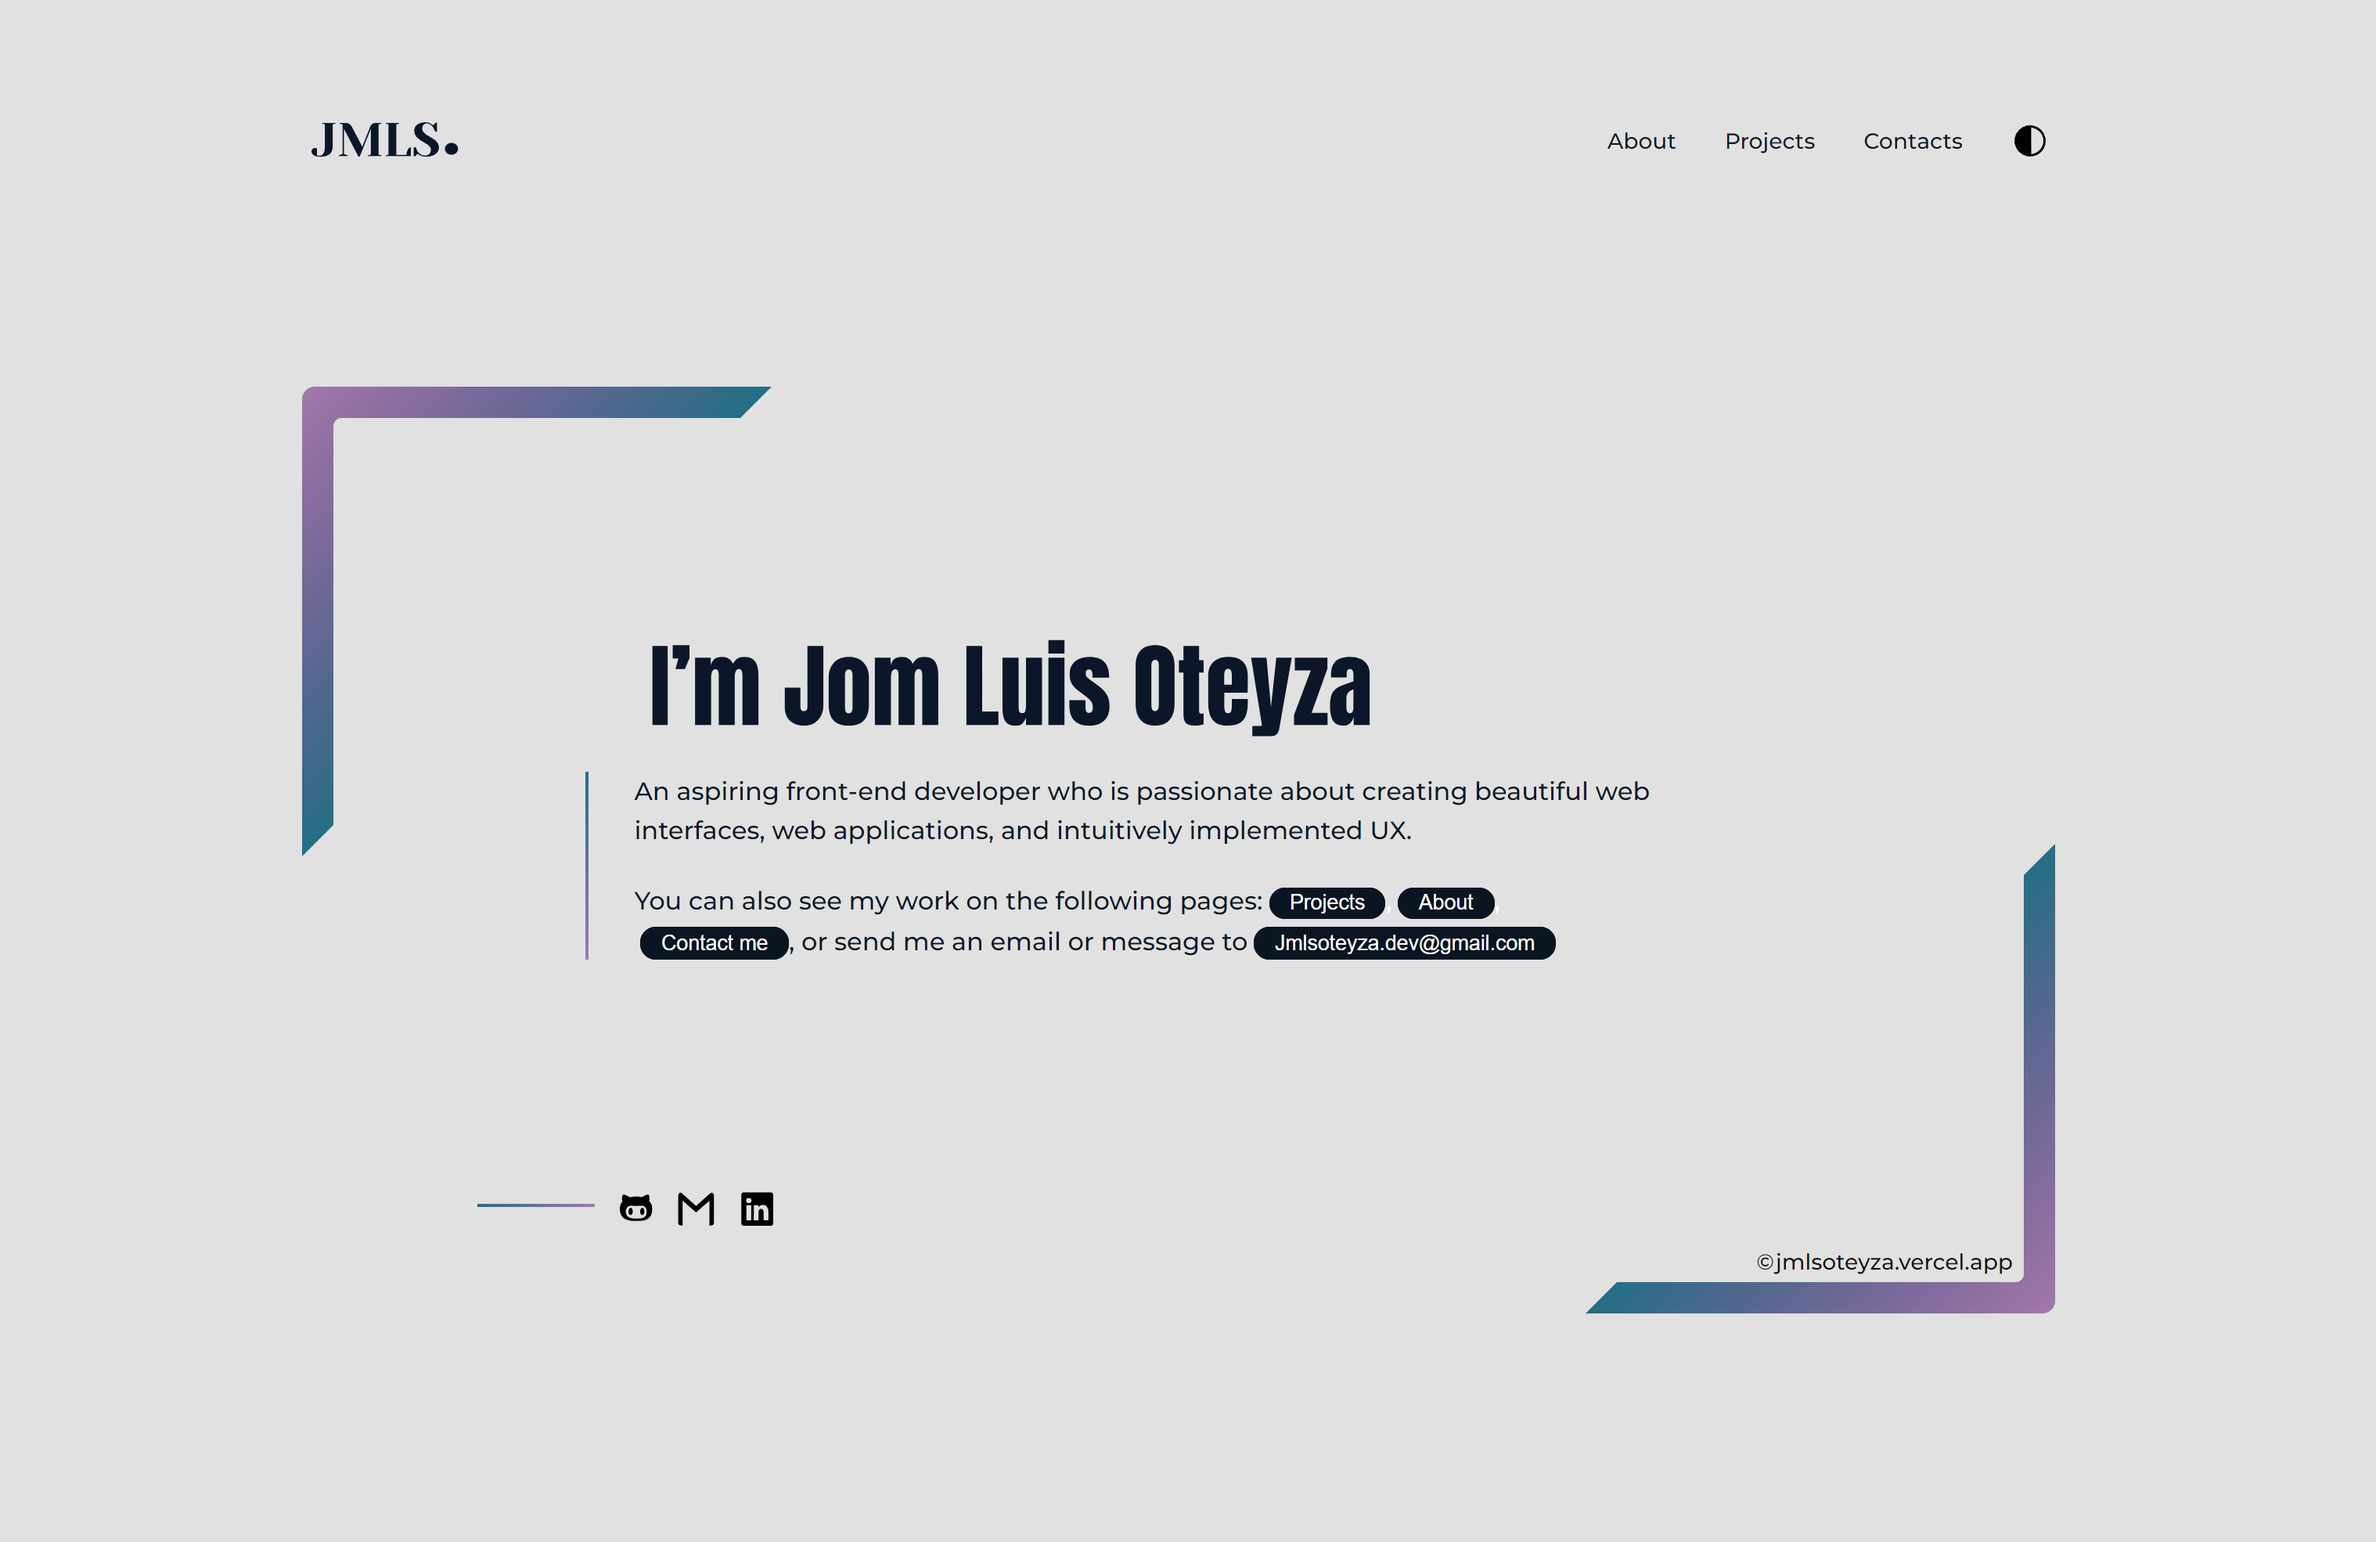
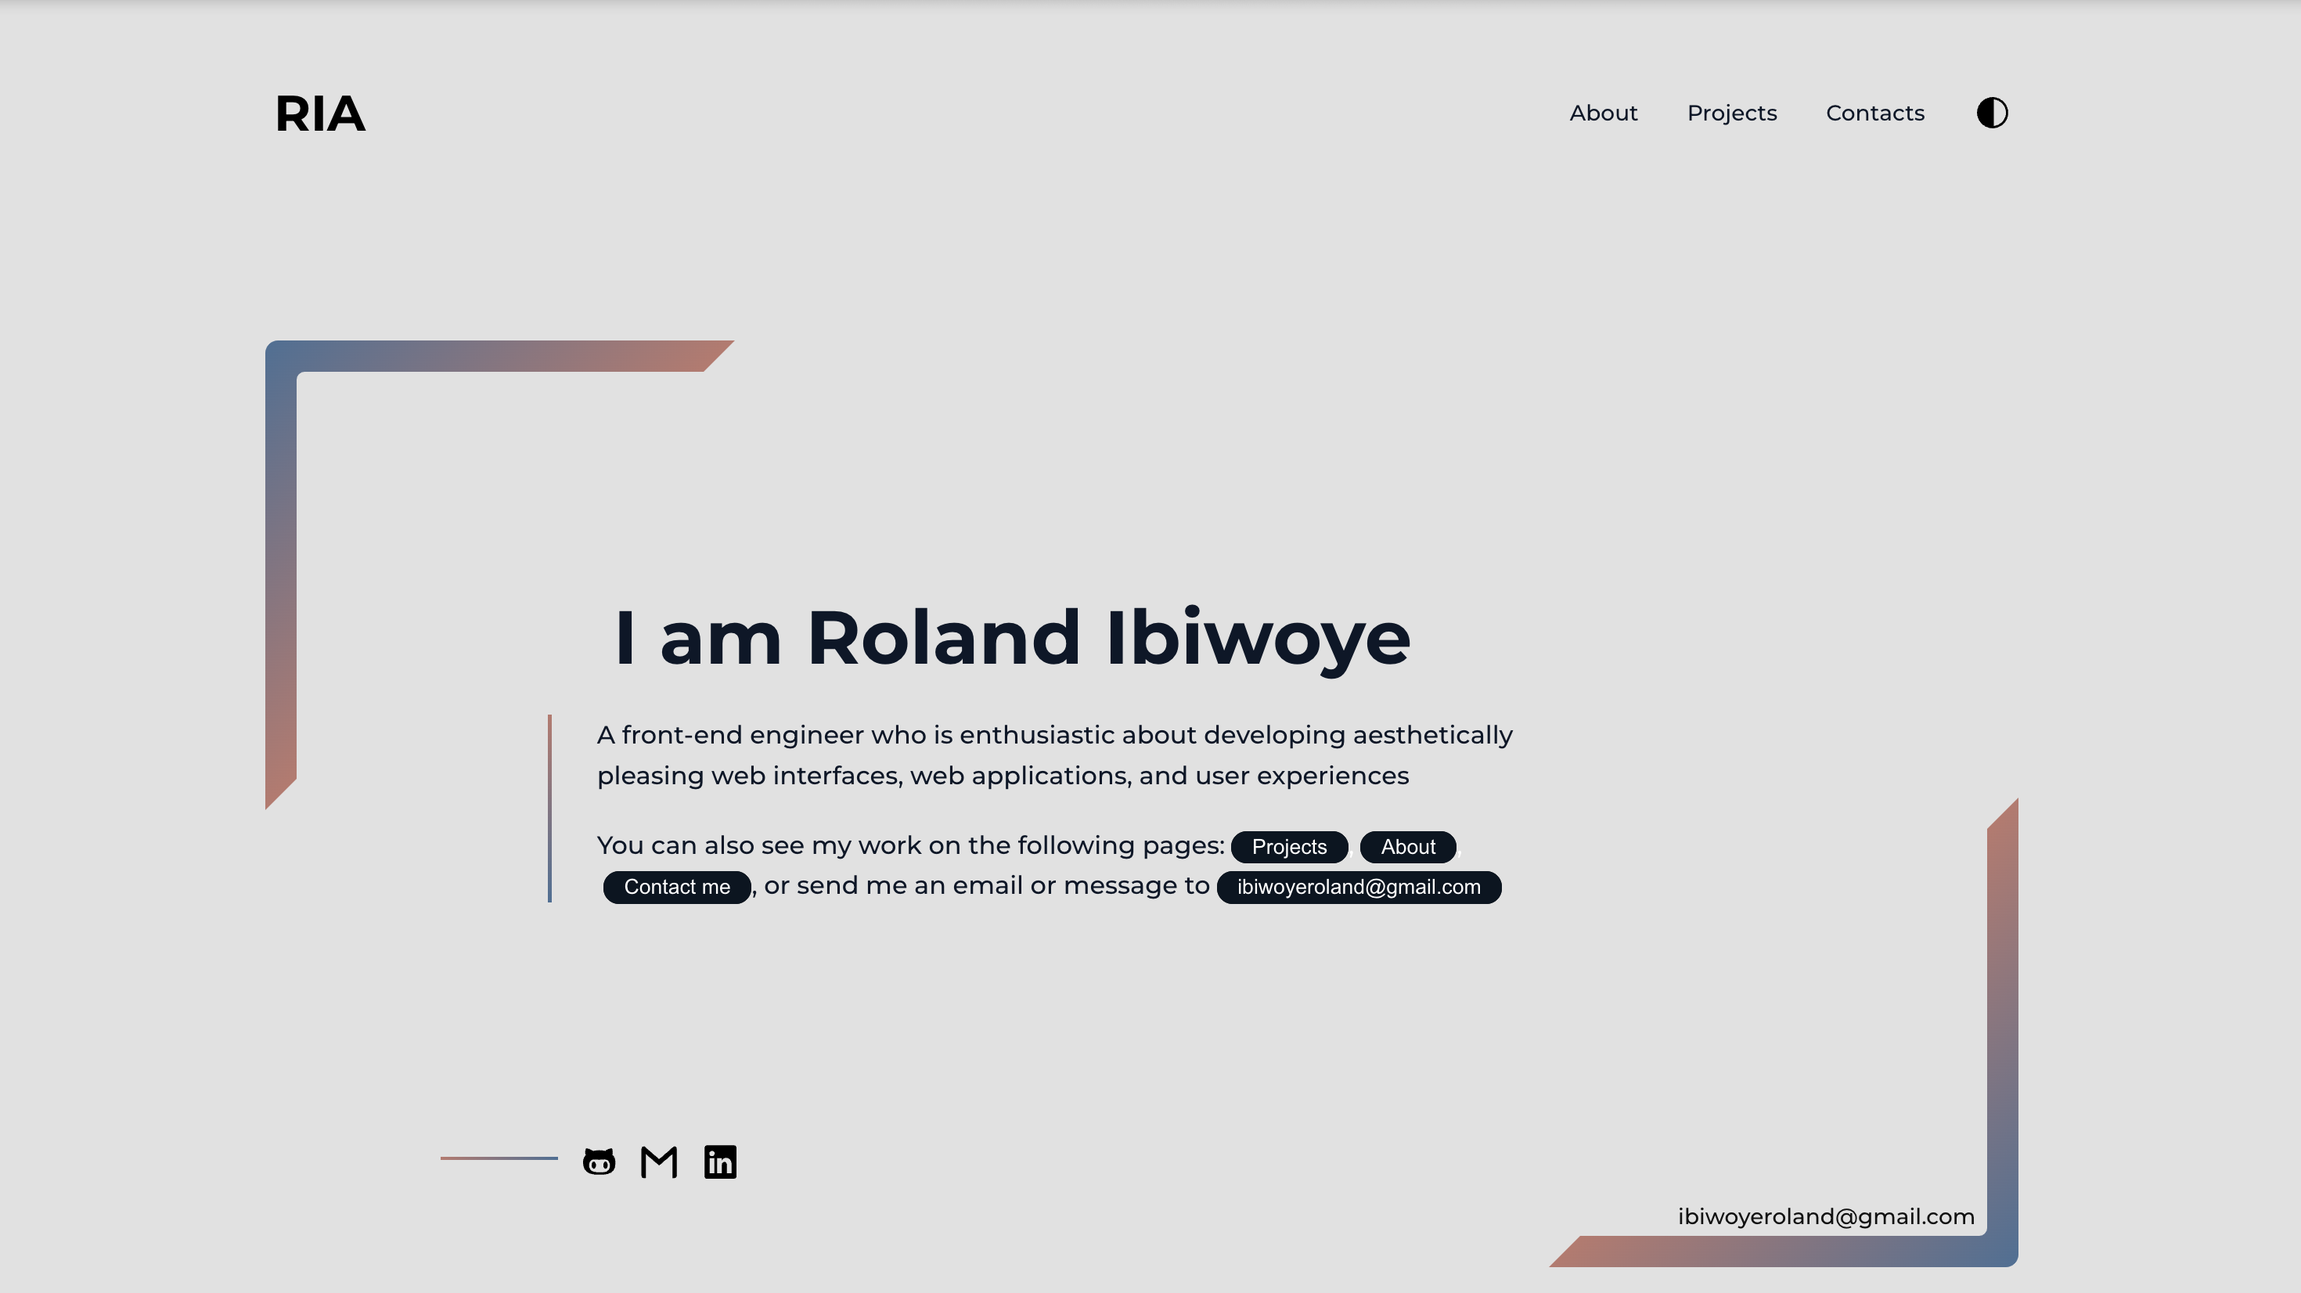
update

diff --git a/src/Components/Projects/ProjectsData.jsx b/src/Components/Projects/ProjectsData.jsx
@@ -36,8 +36,8 @@ export const TabsData1 = [
     languages: ["ReactJS", "SCSS"],
     img: portfolio,
     class: "tabs-container_flex_reverse",
-    link: "https://jmlsoteyza.vercel.app/",
-    githubLink: "https://github.com/Jmlsoteyza/Portfolio",
+    link: "https://rolandayo.vercel.app/",
+    githubLink: "https://github.com/rolandaayo/my-portfolio",
   },
 ];
 
@@ -48,9 +48,9 @@ export const TabsData2 = [
     desc: "I have created a website that features a pixel-art editor that I learned the methods from Eloquent Javascript book. This online tool allows users to create pixel art, a graphic aesthetic that originated from 8- and 16-bit computers.",
     languages: ["HTML", "CSS", "Javascript"],
     class: "tabs-container_flex",
-    link: "https://jmlsoteyza.github.io/Pixel-Art-Editor/",
+    link: "https://rolandaayo.github.io/Pixel-Art-Editor/",
     img: pae,
-    githubLink: "https://github.com/Jmlsoteyza/Pixel-Art-Editor",
+    githubLink: "https://github.com/rolandaayo/Pixel-Art-Editor",
   },
   {
     id: 2,
@@ -59,7 +59,7 @@ export const TabsData2 = [
     languages: ["HTML", "CSS", "Javascript"],
     class: "tabs-container_flex_reverse",
     link: "https://jmlsoteyza-clock-time.netlify.app/",
-    githubLink: "https://github.com/Jmlsoteyza/Wall-Clock",
+    githubLink: "https://github.com/rolandaayo/Wall-Clock",
     img: wallclock,
   },
   {
